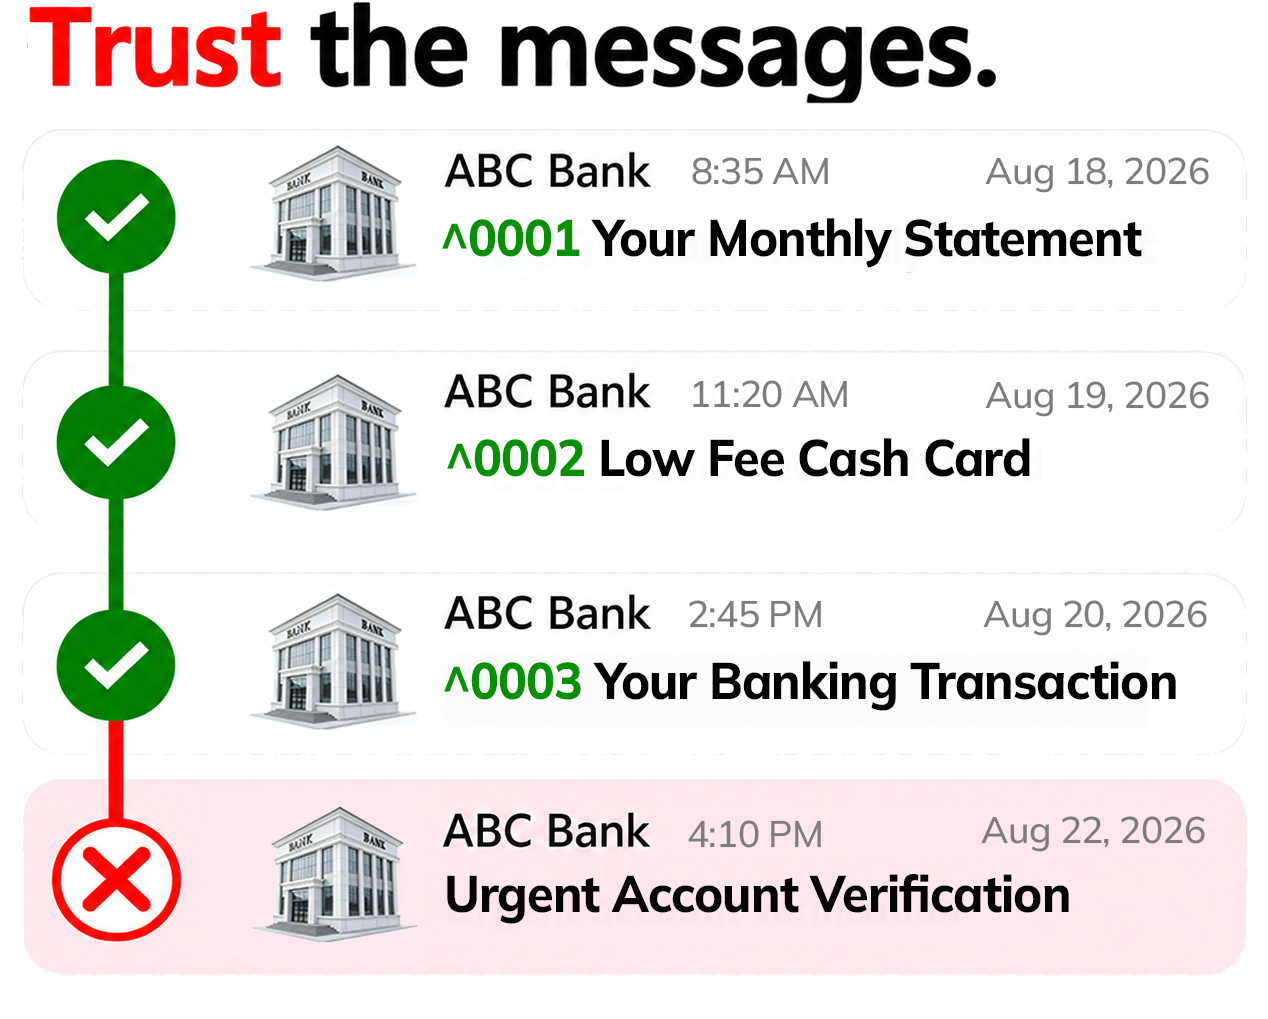
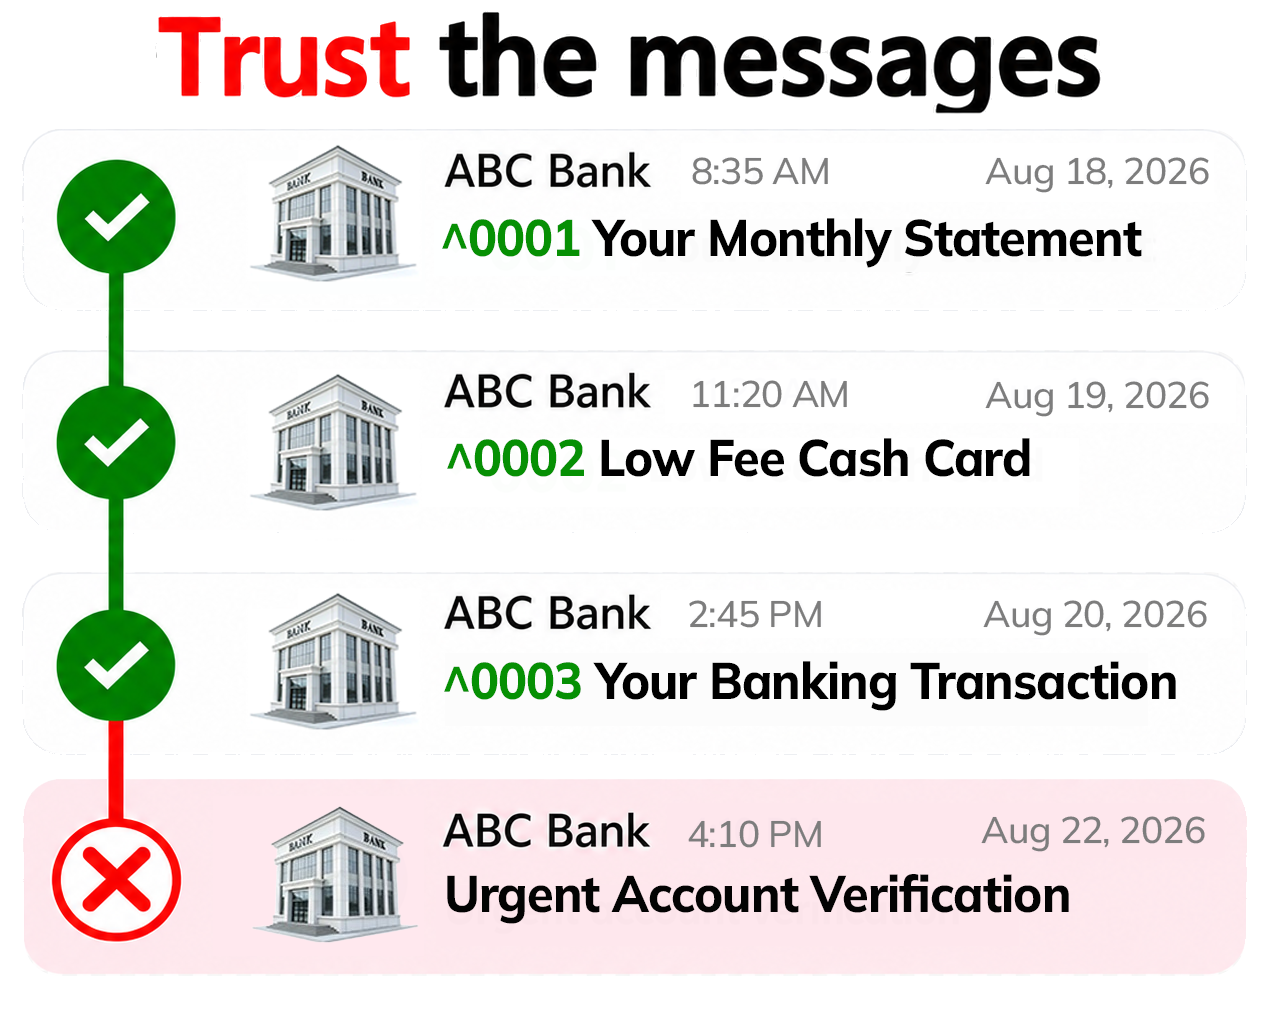
Split header nav into two blocks, swap Email-PRO phone to gif
- Header: desktop nav split into two 3-item blocks (Home/Video/Email,
  Telecom/Help/About), gap between them matches the header-top
  page-down tab's width; ^0001 badge moved next to the globe icon
- Home hero: Email-PRO phone now shows PhishFlagger Email Gif v2.gif
  instead of the static PNG; hero v2 image nudged up further
- Telecom: reverted border experiments on the Existing Caller ID and
  protocols text boxes, enlarged granny image slightly
- Updated hero v1/v2/v3 image assets

Claude-Session: https://claude.ai/code/session_01WPP5JKS8ugCaxhzCojnuGS

Changed region(s): [[0.0, 0.0, 0.892, 0.1217]]

diff --git a/src/components/layout/Header.jsx b/src/components/layout/Header.jsx
@@ -34,6 +34,34 @@ export default function Header() {
   // menus that already open on hover — no click required.
   const HOVER_NAV_LABELS = new Set(["Home", "Email", "Telecom", "Video", "Help"]);
 
+  // Desktop nav split into two blocks of 3 (see JSX below) — first half /
+  // second half of the 6-item nav array.
+  const navLeft = nav.slice(0, 3);
+  const navRight = nav.slice(3);
+
+  function renderNavItem(item) {
+    if (item.children) {
+      return (
+        <NavDropdown item={item} hoverNavigate={HOVER_NAV_LABELS.has(item.label)} />
+      );
+    }
+    return (
+      <NavLink
+        to={item.href}
+        onMouseEnter={
+          HOVER_NAV_LABELS.has(item.label) ? () => navigate(item.href) : undefined
+        }
+        className={({ isActive }) =>
+          `rounded-md px-3 py-1.5 text-[15px] font-medium transition-colors hover:text-brand ${
+            isActive ? "bg-gray-100 text-brand" : "text-ink"
+          }`
+        }
+      >
+        {item.label}
+      </NavLink>
+    );
+  }
+
   // Close mobile menu on route change
   useEffect(() => {
     setMobileOpen(false);
@@ -61,8 +89,15 @@ export default function Header() {
           />
         </NavLink>
 
-        {/* Globe (country/region) + Login — pinned to the far right edge on desktop */}
+        {/* ^0001 badge + Globe (country/region) + Login — pinned to the far right edge on desktop */}
         <div className="hidden lg:absolute lg:right-10 lg:top-1/2 lg:flex lg:-translate-y-1/2 lg:items-center lg:gap-4">
+          <span className="flex shrink-0 items-center gap-1.5 font-semibold text-ink transition-[font-weight] duration-200 hover:font-extrabold" style={{ fontSize: "19px", letterSpacing: "0.04em" }}>
+            <svg viewBox="0 0 24 24" className="h-5 w-5 shrink-0" aria-hidden>
+              <rect x="2" y="2" width="20" height="20" rx="4" fill="#16a34a" />
+              <path d="M7 12.5l3 3 7-7.5" stroke="white" strokeWidth="2.4" strokeLinecap="round" strokeLinejoin="round" fill="none" />
+            </svg>
+            ^0001
+          </span>
           <Link
             to="/country"
             aria-label="Choose your country"
@@ -121,46 +156,23 @@ export default function Header() {
           {/* Desktop nav + badge — kept tight together */}
           <div className="hidden items-center gap-3 lg:flex">
             <nav aria-label="Primary">
-              <ul className="flex items-center gap-4">
-                {nav.map((item) =>
-                  item.children ? (
-                    <li key={item.label}>
-                      <NavDropdown
-                        item={item}
-                        hoverNavigate={HOVER_NAV_LABELS.has(item.label)}
-                      />
-                    </li>
-                  ) : (
-                    <li key={item.label}>
-                      <NavLink
-                        to={item.href}
-                        onMouseEnter={
-                          HOVER_NAV_LABELS.has(item.label)
-                            ? () => navigate(item.href)
-                            : undefined
-                        }
-                        className={({ isActive }) =>
-                          `rounded-md px-3 py-1.5 text-[15px] font-medium transition-colors hover:text-brand ${
-                            isActive ? "bg-gray-100 text-brand" : "text-ink"
-                          }`
-                        }
-                      >
-                        {item.label}
-                      </NavLink>
-                    </li>
-                  ),
-                )}
-              </ul>
+              {/* Split into two blocks of 3 with a gap between them the
+                  width of the header-top page-down tab, left block nudged
+                  left and right block nudged right. */}
+              <div className="flex items-center gap-x-[88px] sm:gap-x-[96px]">
+                <ul className="-ml-4 flex items-center gap-4">
+                  {navLeft.map((item) => (
+                    <li key={item.label}>{renderNavItem(item)}</li>
+                  ))}
+                </ul>
+                <ul className="-mr-4 flex items-center gap-4">
+                  {navRight.map((item) => (
+                    <li key={item.label}>{renderNavItem(item)}</li>
+                  ))}
+                </ul>
+              </div>
             </nav>
 
-            {/* ^0001 badge — sits right next to Contact */}
-            <span className="ml-4 flex shrink-0 items-center gap-1.5 font-semibold text-ink transition-[font-weight] duration-200 hover:font-extrabold sm:ml-6" style={{ fontSize: "19px", letterSpacing: "0.04em" }}>
-              <svg viewBox="0 0 24 24" className="h-5 w-5 shrink-0" aria-hidden>
-                <rect x="2" y="2" width="20" height="20" rx="4" fill="#16a34a" />
-                <path d="M7 12.5l3 3 7-7.5" stroke="white" strokeWidth="2.4" strokeLinecap="round" strokeLinejoin="round" fill="none" />
-              </svg>
-              ^0001
-            </span>
           </div>
 
           {/* Mobile toggle */}

diff --git a/src/pages/Home.jsx b/src/pages/Home.jsx
@@ -11,7 +11,6 @@ import whoCanUseImg from "../assets/images/email-marketing-verified-v9.png";
 import outlookThunderbirdImg from "../assets/images/outlook and thunderbird.png";
 import callerIdDesktopImg from "../../telecom Webpage/assets/images/products/desktop-phone-v3-verified.png";
 import callerIdHandsetImg from "../../telecom Webpage/assets/images/products/phishflagger-callerid-v6.png";
-import emailPhoneImg from "../../telecom Webpage/assets/images/products/PhishFlagger-Email v6.png";
 import threePhoneImg from "../../telecom Webpage/assets/images/products/3phone.png";
 import history1Img from "../assets/images/7 1st.avif";
 import history2Img from "../assets/images/7  2nd.avif";
@@ -21,7 +20,7 @@ import cloudServerImg from "../assets/images/digital-domain-diagram-v6-no-connec
 
 const SCREENS = [
   { label: "Email Inbox", src: heroInfoBoxImg, hoverSrc: heroInfoBoxGif },
-  { label: "Email", src: emailPhoneImg },
+  { label: "Email", src: "/assets/images/PhishFlagger%20Email%20Gif%20v2.gif" },
   { label: "Messages", src: messagesPhoneImg },
   { label: "Text/SMS", src: textPhoneImg },
   { label: "Caller ID", src: callerIdHandsetImg },
@@ -57,7 +56,7 @@ export default function Home() {
           <img
             src="/assets/images/hero%20v2.png"
             alt="PhishCounter sequence verification on ABC Bank messages"
-            className="mx-auto h-auto w-[100%] max-w-none -translate-x-4 -translate-y-11 object-contain"
+            className="mx-auto h-auto w-[100%] max-w-none -translate-x-4 -translate-y-[3.25rem] object-contain"
           />
         </div>
         <div className="min-w-0 lg:flex-1">

diff --git a/src/pages/join/Telecom.jsx b/src/pages/join/Telecom.jsx
@@ -45,7 +45,7 @@ export default function Telecom() {
                 </h1>
               </div>
 
-              <div className="mt-4 flex min-h-[128px] w-[88%] items-center justify-center rounded-xl border-2 border-black bg-white px-6 py-4 sm:min-h-[150px] sm:px-8 lg:min-h-[165px]">
+              <div className="mt-4 flex min-h-[128px] w-[88%] items-center justify-center rounded-xl bg-white px-6 py-4 sm:min-h-[150px] sm:px-8 lg:min-h-[165px]">
                 <p className="text-left text-[17px] leading-[1.65] text-black sm:text-[19px] sm:leading-[1.6]">
                   <em className="font-bold">
                     <span className="text-black">Phish</span>
@@ -73,7 +73,7 @@ export default function Telecom() {
             <img
               src="/assets/images/granny image.png"
               alt="User receiving an authenticated call"
-              className="h-[85%] w-auto max-w-full -translate-y-10 rounded-2xl object-cover"
+              className="h-[95%] w-auto max-w-full -translate-y-10 rounded-2xl object-cover"
             />
           </div>
 
